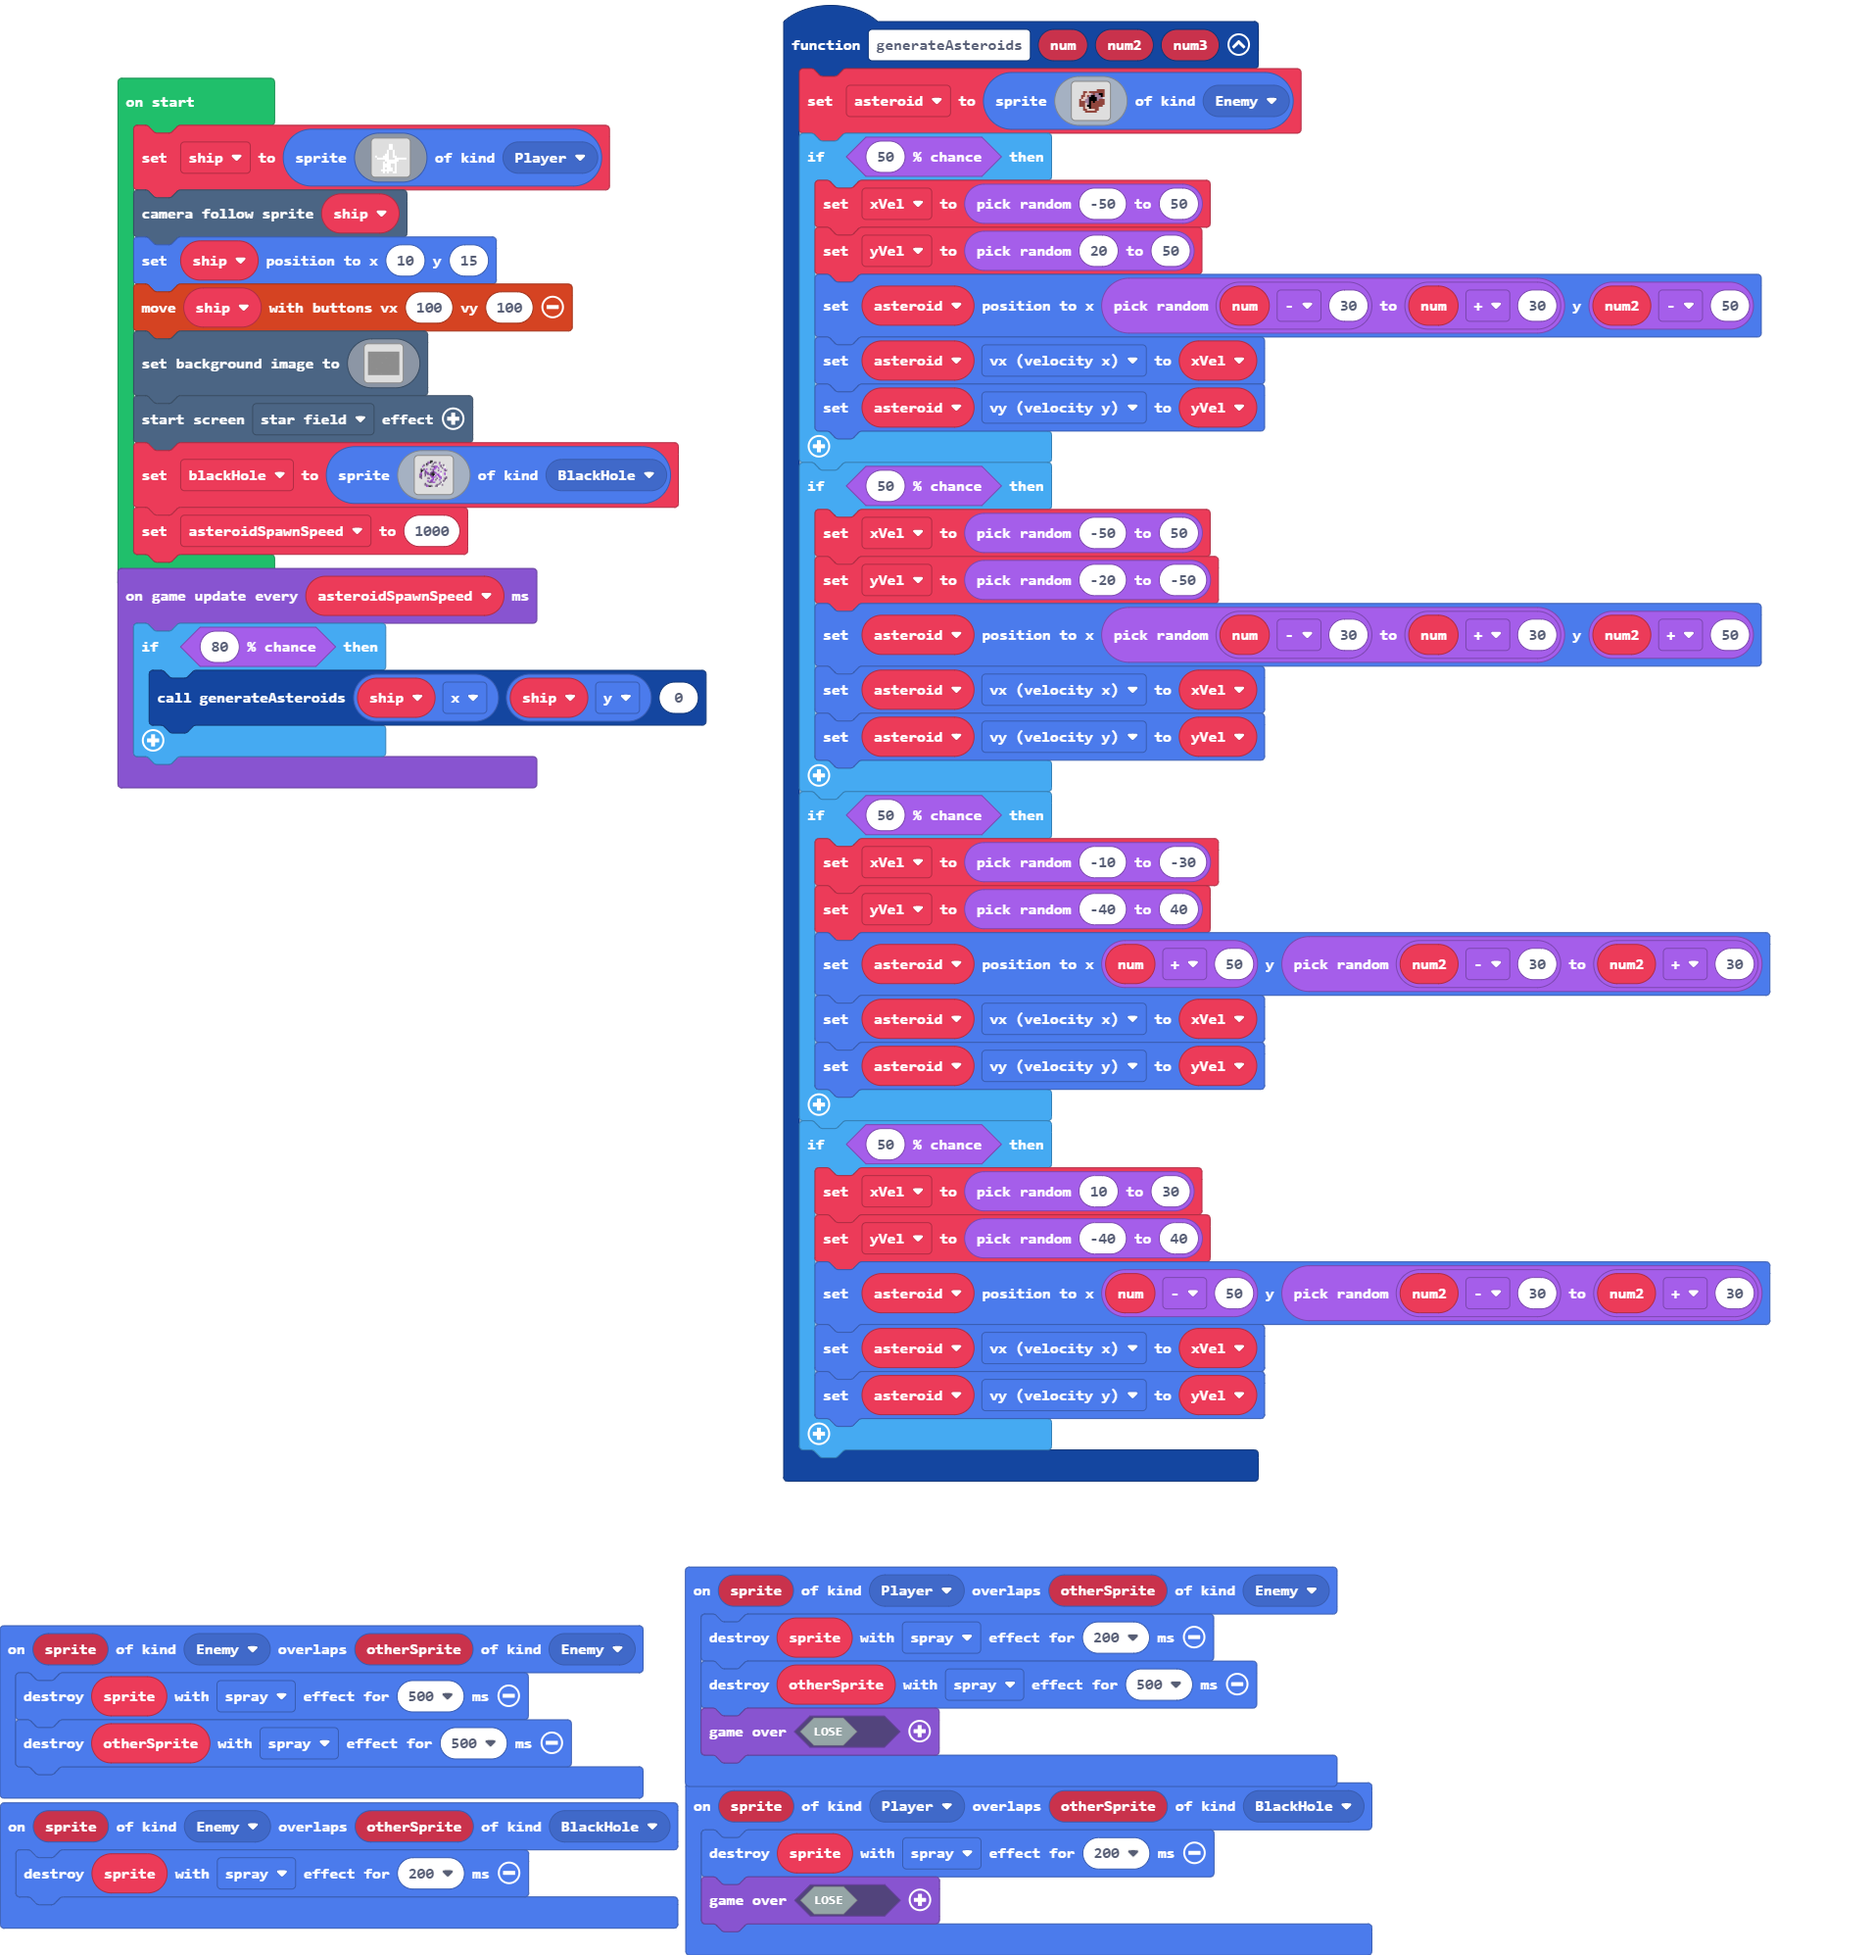
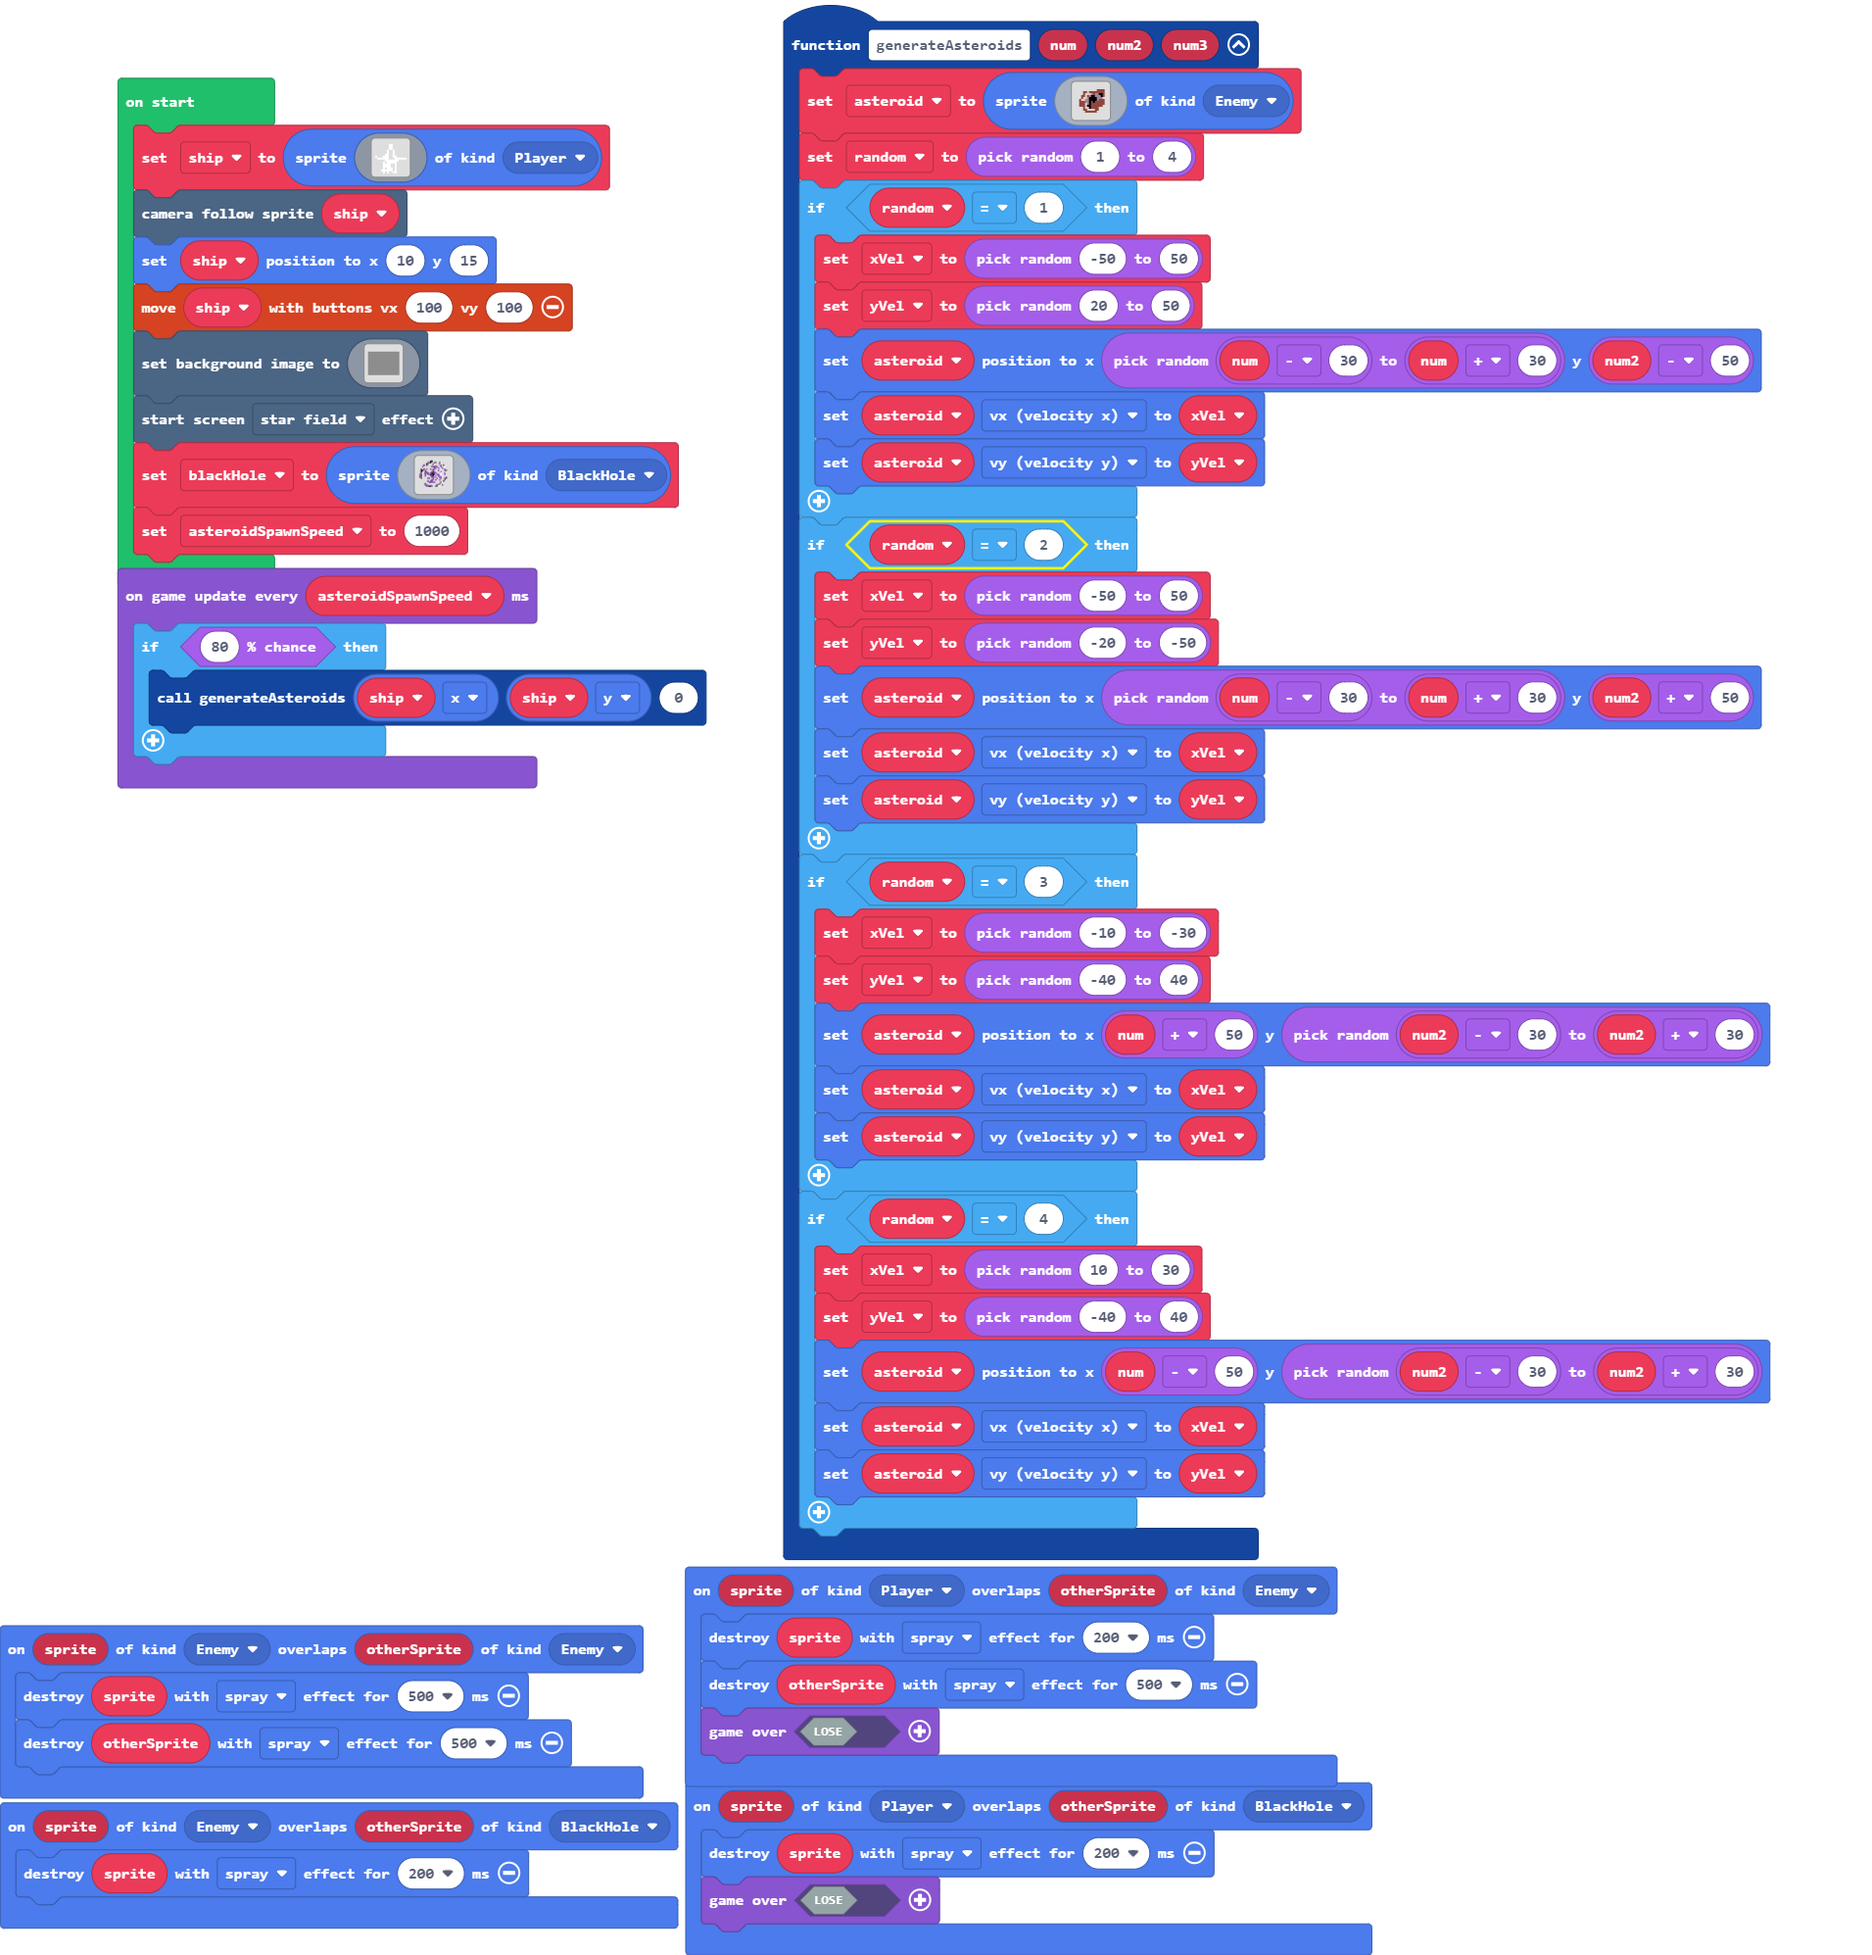
Update main.blocks, main.ts

Changed region(s): [[0.4014, 0.0622, 0.9571, 0.808]]

diff --git a/main.ts b/main.ts
@@ -32,28 +32,29 @@ function generateAsteroids (num: number, num2: number, num3: number) {
         . . . . . . . . . . . . . . . . 
         . . . . . . . . . . . . . . . . 
         `, SpriteKind.Enemy)
-    if (Math.percentChance(50)) {
+    random = randint(1, 4)
+    if (random == 1) {
         xVel = randint(-50, 50)
         yVel = randint(20, 50)
         asteroid.setPosition(randint(num - 30, num + 30), num2 - 50)
         asteroid.vx = xVel
         asteroid.vy = yVel
     }
-    if (Math.percentChance(50)) {
+    if (random == 2) {
         xVel = randint(-50, 50)
         yVel = randint(-20, -50)
         asteroid.setPosition(randint(num - 30, num + 30), num2 + 50)
         asteroid.vx = xVel
         asteroid.vy = yVel
     }
-    if (Math.percentChance(50)) {
+    if (random == 3) {
         xVel = randint(-10, -30)
         yVel = randint(-40, 40)
         asteroid.setPosition(num + 50, randint(num2 - 30, num2 + 30))
         asteroid.vx = xVel
         asteroid.vy = yVel
     }
-    if (Math.percentChance(50)) {
+    if (random == 4) {
         xVel = randint(10, 30)
         yVel = randint(-40, 40)
         asteroid.setPosition(num - 50, randint(num2 - 30, num2 + 30))
@@ -72,6 +73,7 @@ sprites.onOverlap(SpriteKind.Player, SpriteKind.Enemy, function (sprite, otherSp
 })
 let yVel = 0
 let xVel = 0
+let random = 0
 let asteroid: Sprite = null
 let ship = sprites.create(img`
     . . . . . . . . . . . . . . . . 
